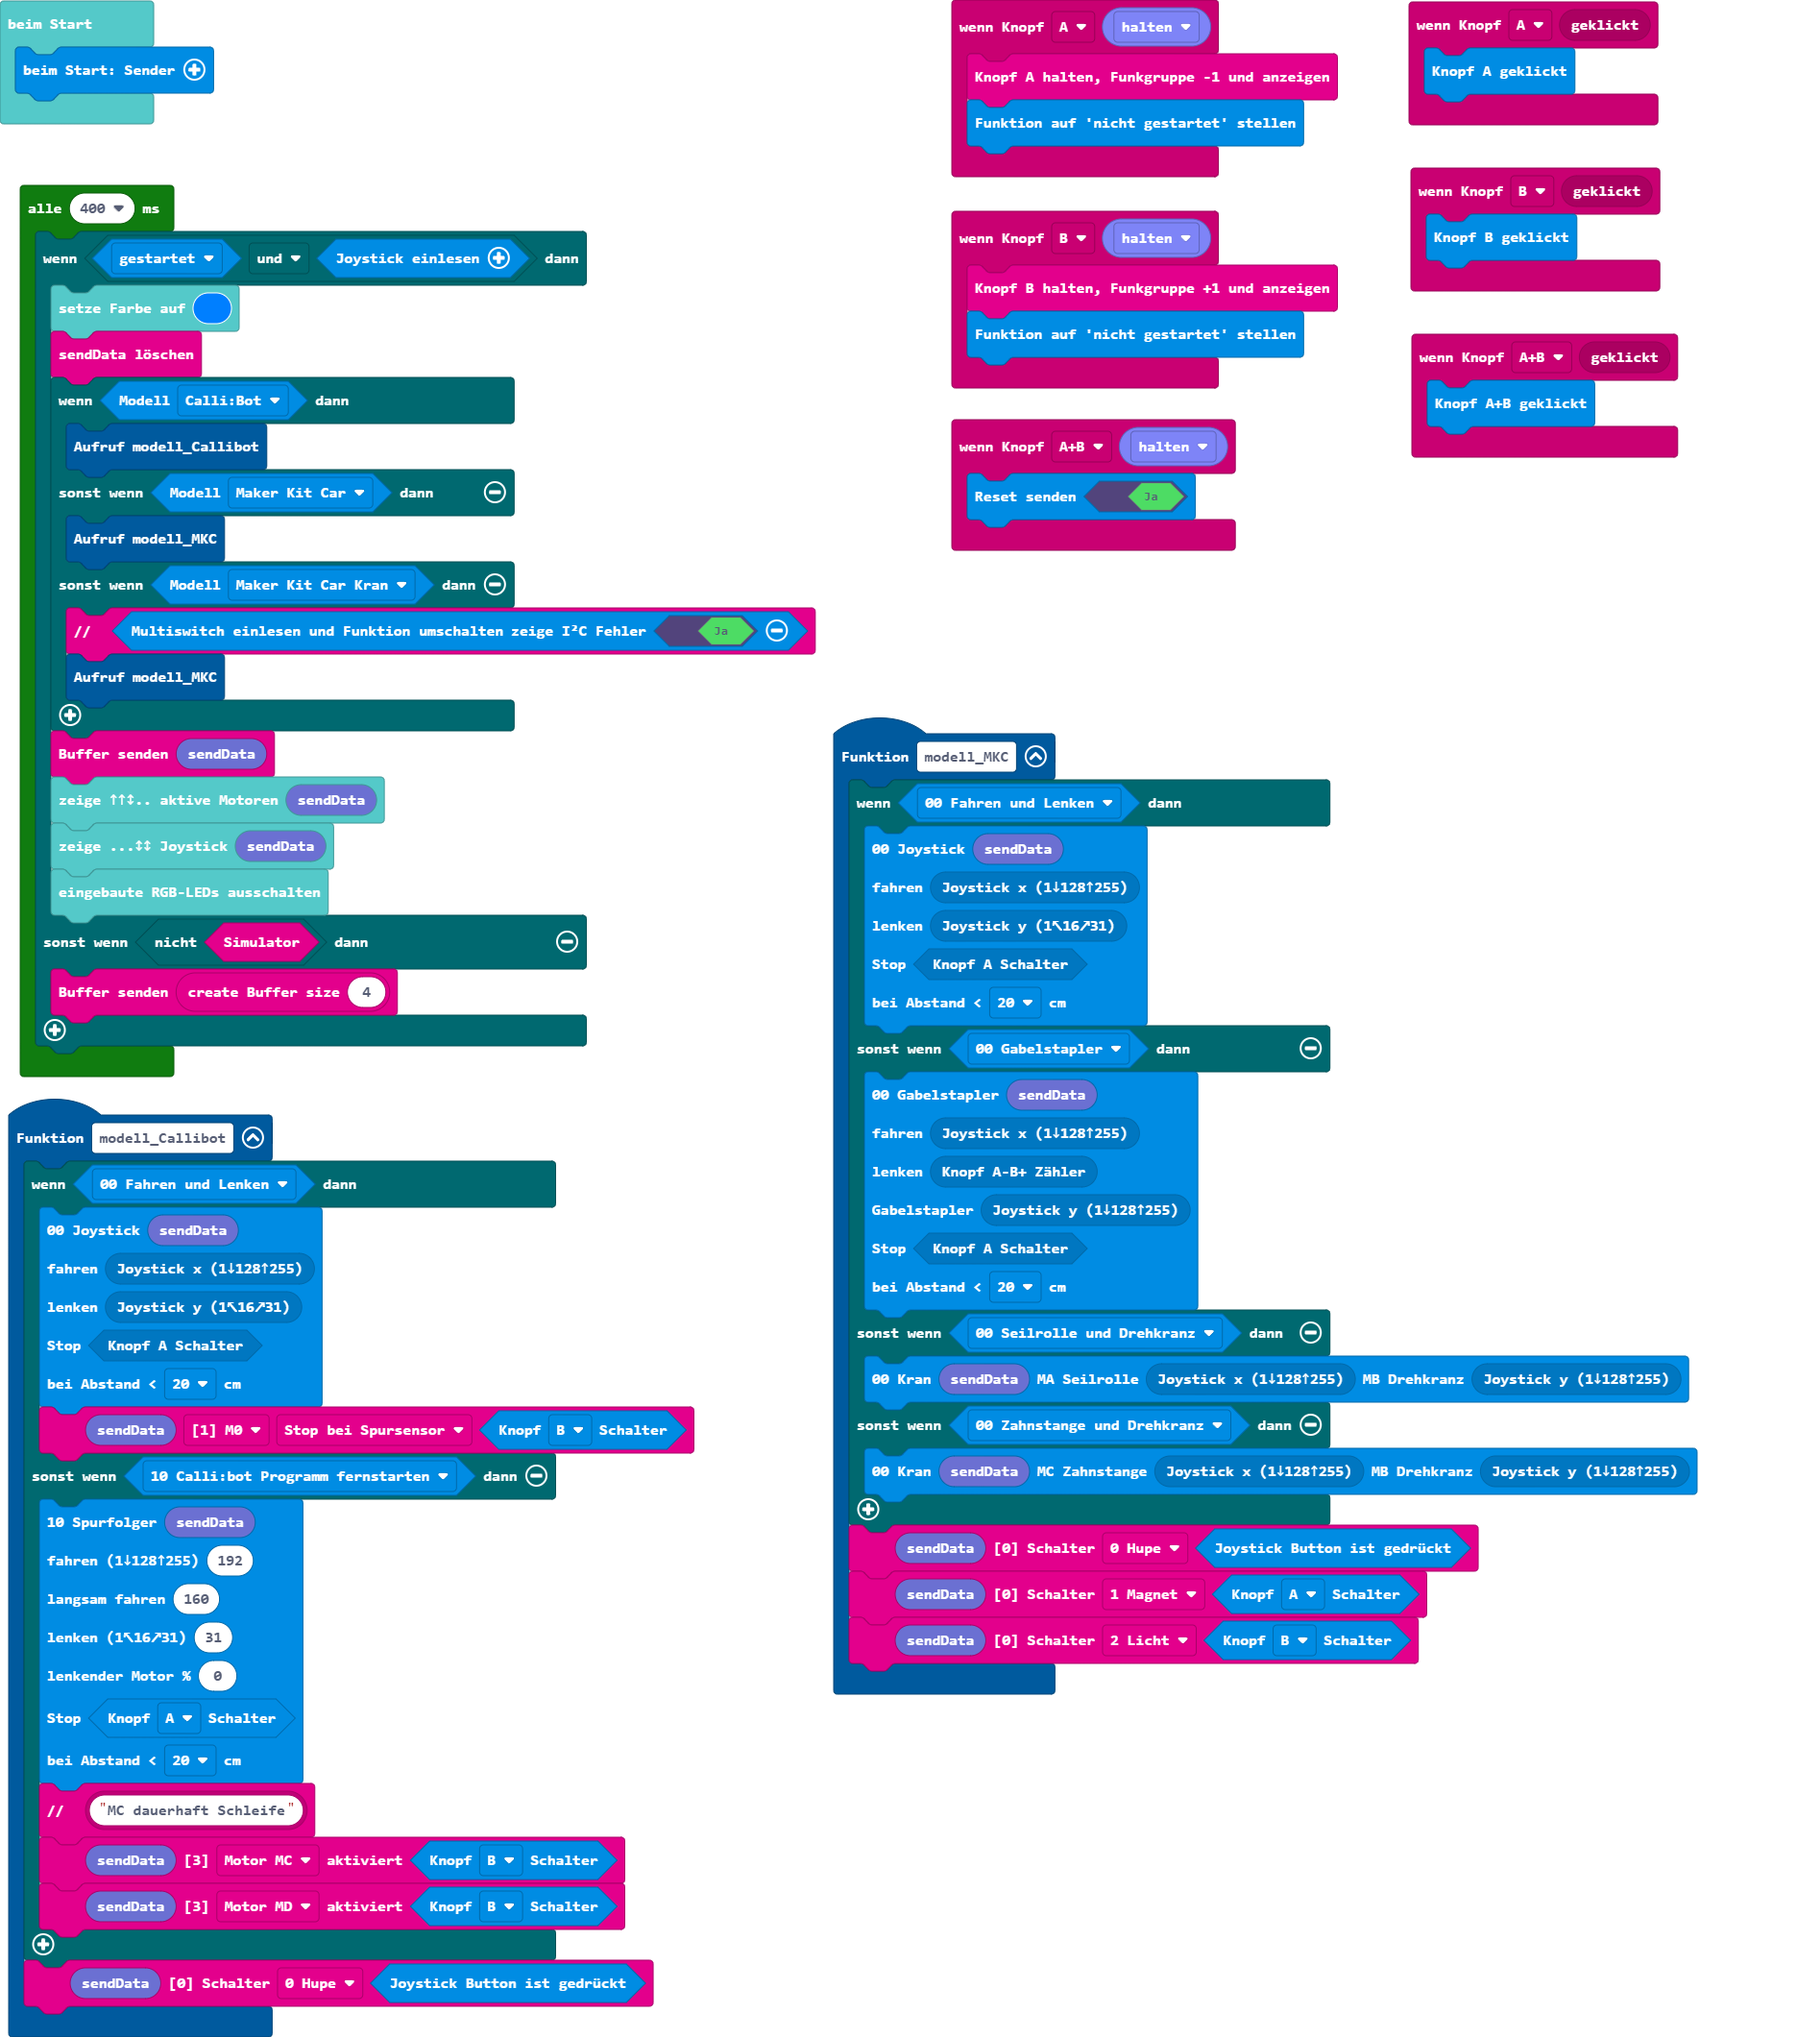
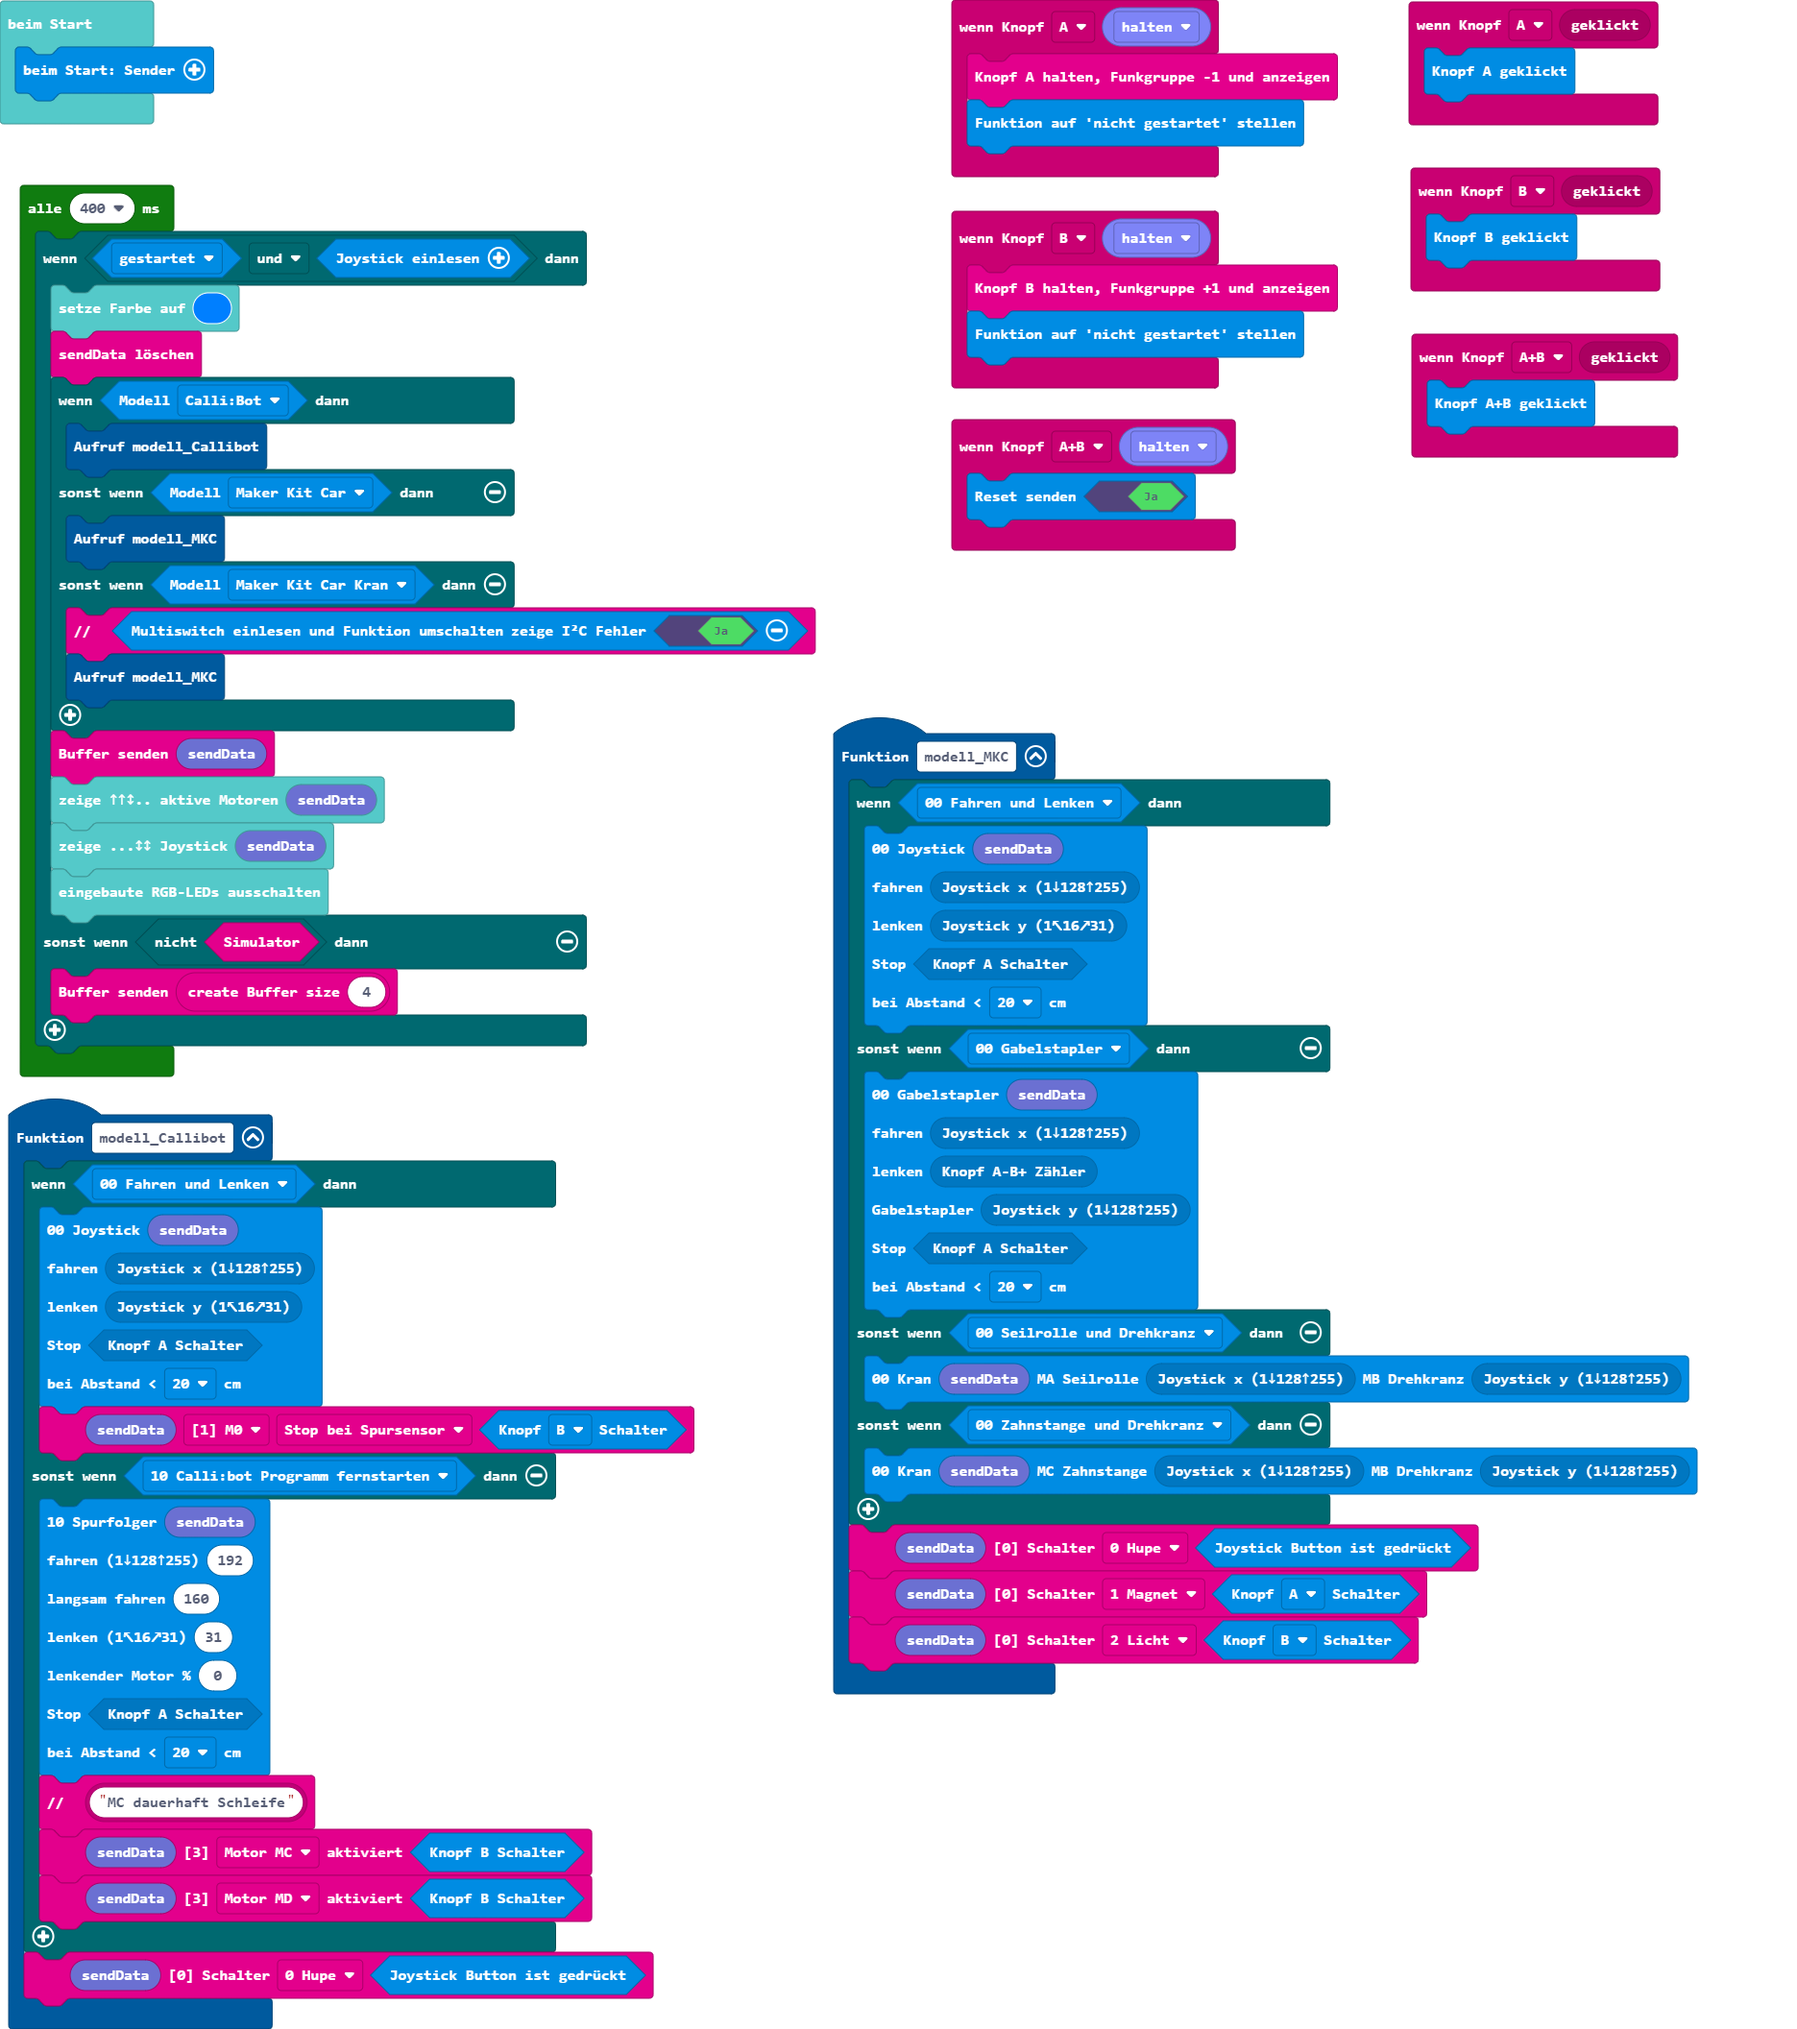
Aktualisiere main.blocks, main.ts

diff --git a/main.ts b/main.ts
@@ -15,12 +15,12 @@ function modell_Callibot () {
         160,
         31,
         0,
-        sender.getButtonAB_Switch(sender.eButtonAB_Switch.A),
+        sender.sender_ButtonA_Switch(),
         btf.e3Abstand.u2
         )
         btf.comment(btf.btf_text("MC dauerhaft Schleife"))
-        btf.setaktiviert(btf.btf_sendBuffer19(), btf.e3aktiviert.mc, sender.getButtonAB_Switch(sender.eButtonAB_Switch.B))
-        btf.setaktiviert(btf.btf_sendBuffer19(), btf.e3aktiviert.md, sender.getButtonAB_Switch(sender.eButtonAB_Switch.B))
+        btf.setaktiviert(btf.btf_sendBuffer19(), btf.e3aktiviert.mc, sender.sender_ButtonB_Switch())
+        btf.setaktiviert(btf.btf_sendBuffer19(), btf.e3aktiviert.md, sender.sender_ButtonB_Switch())
     }
     btf.setSchalter(btf.btf_sendBuffer19(), btf.e0Schalter.b0, sender.joystickButtonPosition())
 }
